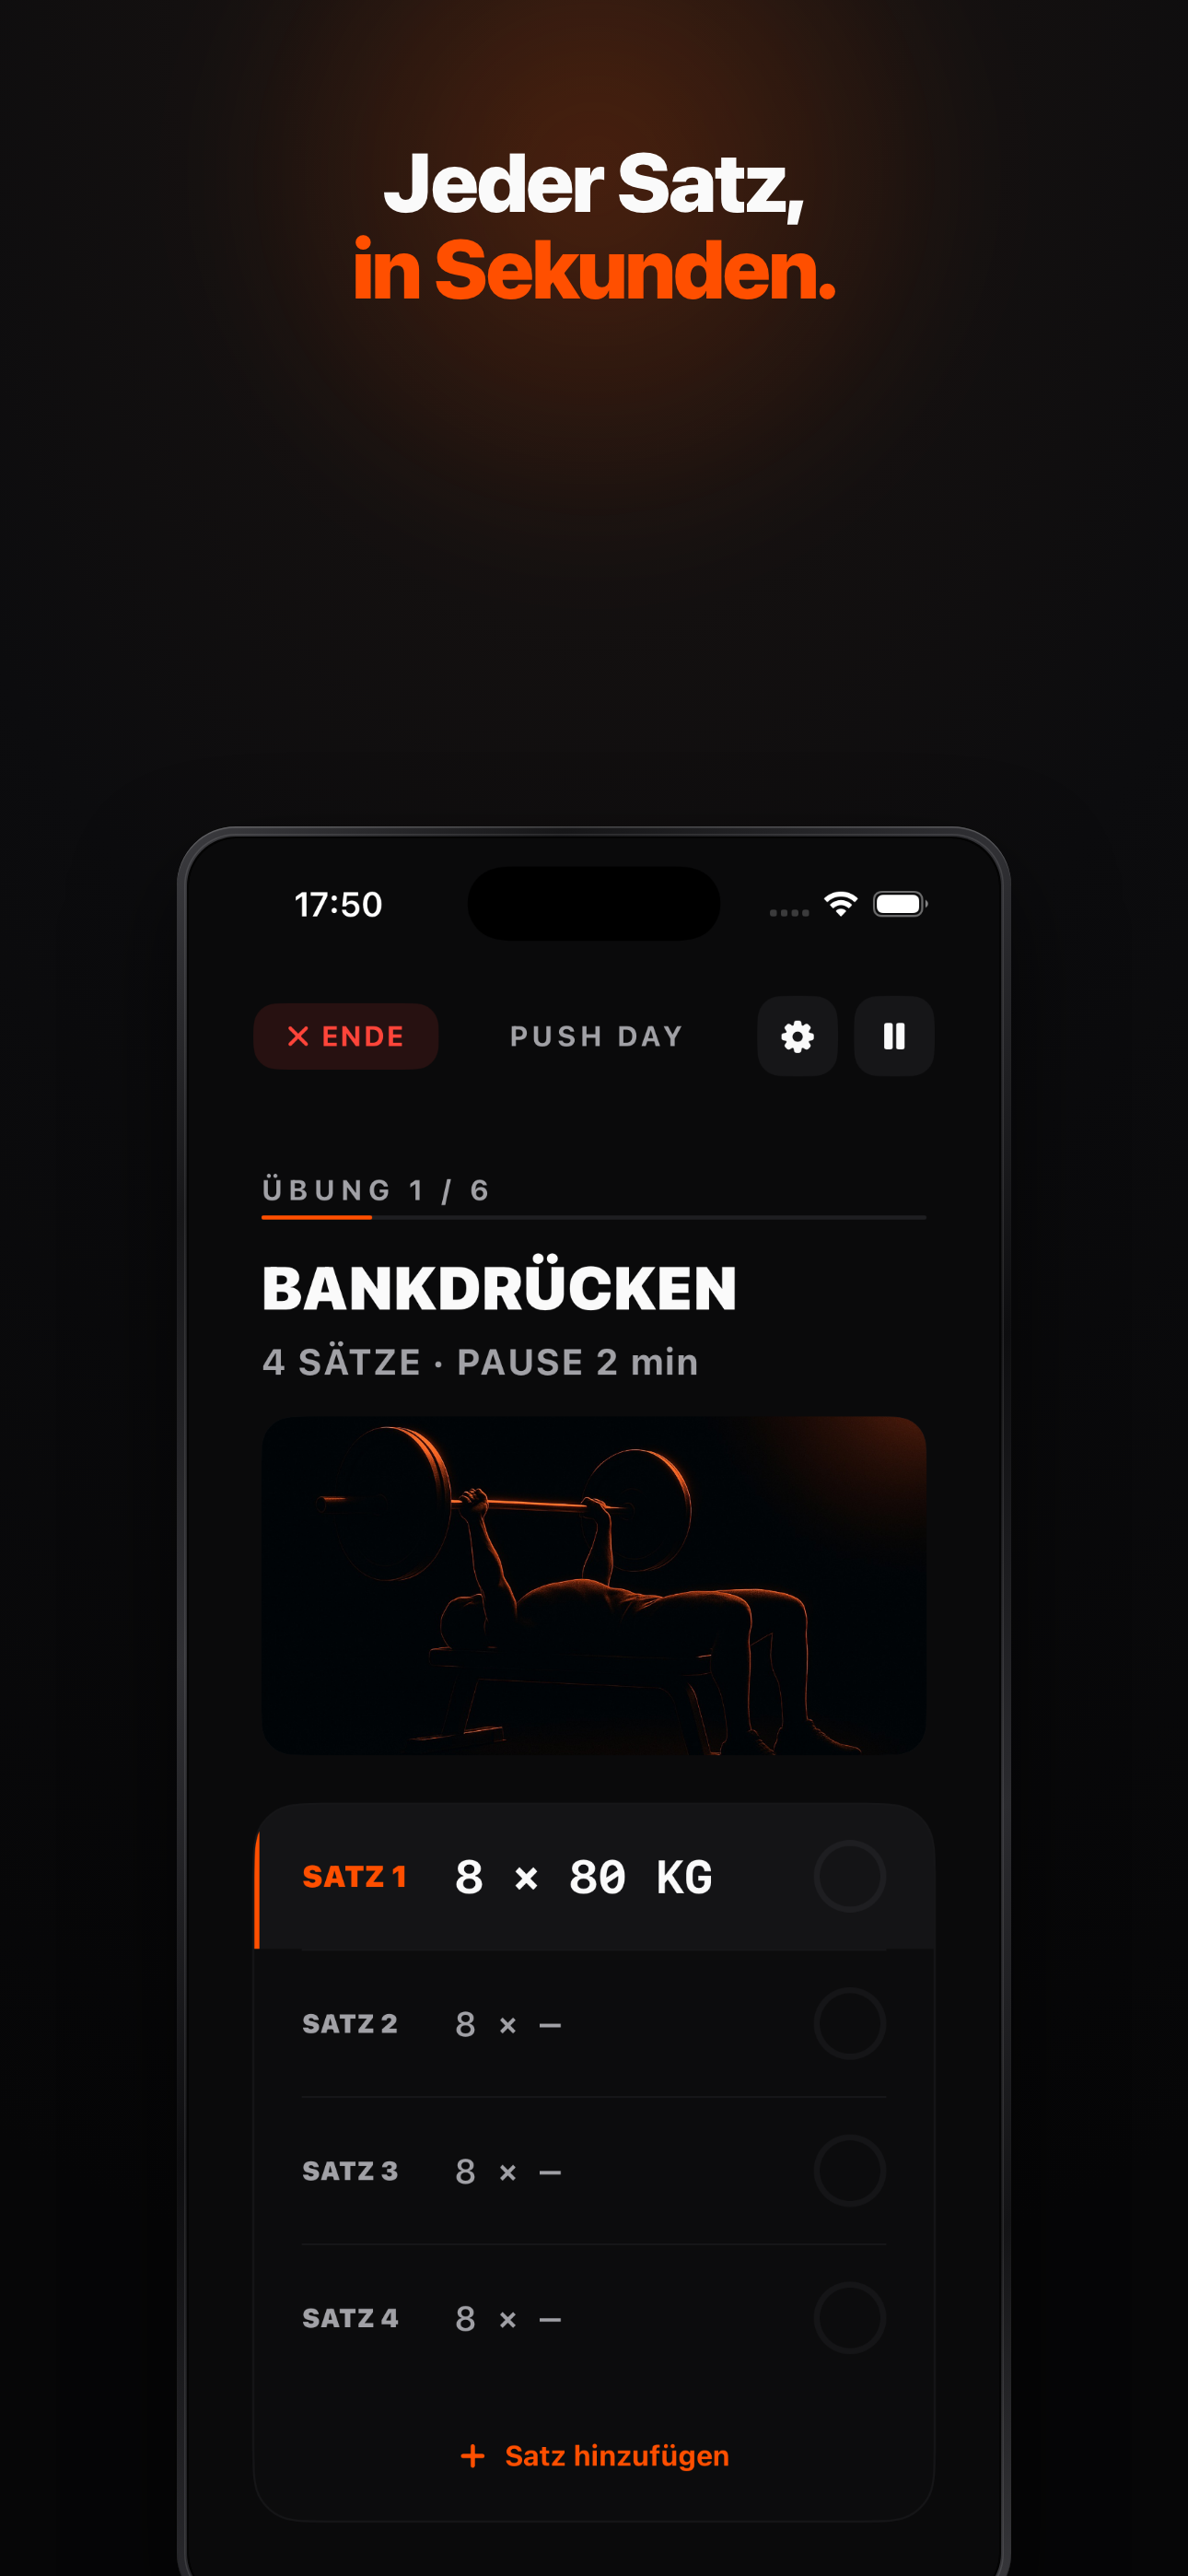
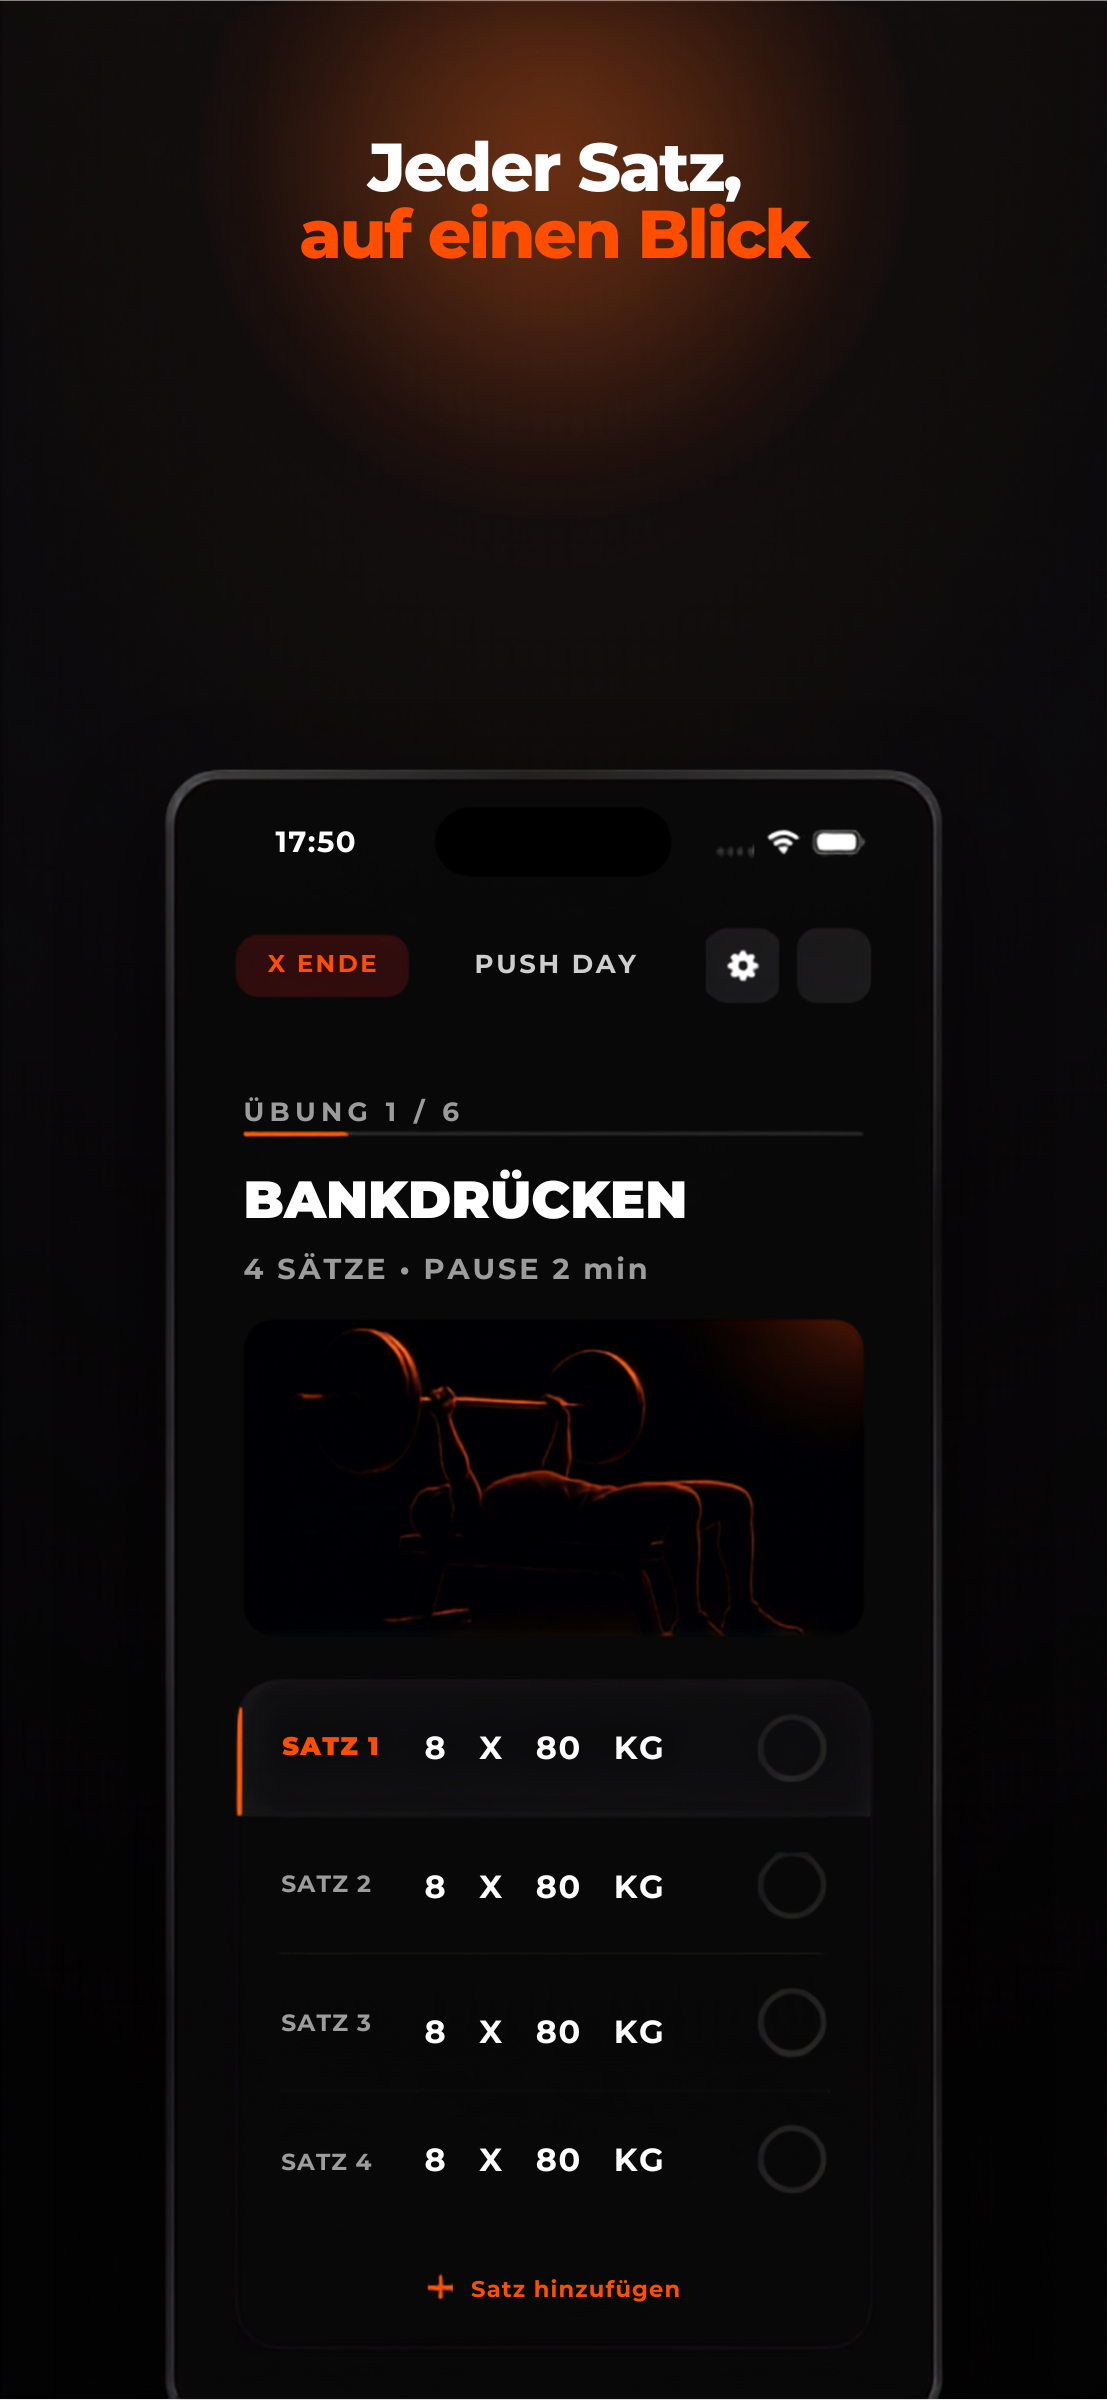
chore: App Store launch finalization (iPhone-only build 2 + IAP assets)
- iOS target now iPhone-only (TARGETED_DEVICE_FAMILY=1), build bumped to 2
- Declare no non-exempt encryption in Info.plist (skips export-compliance prompt)
- ASO: app name "GymBuddy: Workout Log" + reworked subtitle (listing + checklist)
- Add Tip Jar IAP review screenshot (docs/app-store/iap/tipjar-review.png)
- Repo cleanup: fix broken German screenshot filename, drop stale portfolio 2x mockup

App + 3 Tip Jar IAPs submitted to App Store review (v1.0 build 2).

diff --git a/docs/app-store-listing.md b/docs/app-store-listing.md
@@ -9,16 +9,16 @@ the description is **not** indexed (pure conversion). Screenshot captions ARE in
 ## 🇬🇧 English (primary)
 
 ### App Name — 30 char limit
-> **GymBuddy: Workout Tracker** — `25 chars`
+> **GymBuddy: Workout Log** — `21 chars`
 
-Brand + the highest-volume generic keyword ("workout tracker").
-⚠️ **Check name availability** in App Store Connect first — if "GymBuddy" is taken, fallbacks:
-`GymBuddy: Lifting Tracker` (25) · `GymBuddy — Gym Workout Log` (26).
+Brand + high-volume keywords ("workout", "log"). Chosen because "GymBuddy: Workout Tracker"
+was already taken in App Store Connect (also-free alternative: `GymBuddy: Lifting Tracker`).
 
 ### Subtitle — 30 char limit
-> **Lifting log, sets & rest timer** — `30 chars`
+> **Lifting tracker, sets & timer** — `29 chars`
 
-Adds new keywords (lifting, log, sets, rest, timer) — none repeated from the title.
+Adds new keywords (lifting, tracker, sets, timer) — none repeated from the title.
+("Tracker" recovered here since the title dropped it; "log" not repeated since the title now owns it.)
 
 ### Keyword field — 100 byte limit (commas, no spaces)
 > `strength,training,gym,weight,exercise,planner,routine,reps,bodybuilding,powerlifting,push,pull,legs` — `99 bytes`

diff --git a/docs/app-store-submission-checklist.md b/docs/app-store-submission-checklist.md
@@ -52,7 +52,7 @@ with these exact product IDs (must match the code), set prices, and submit them 
 - Sandbox: also testable via a Sandbox Apple ID once the IAPs exist in ASC.
 
 ## 5. App Store listing — ⬜ (paste from `docs/app-store-listing.md`)
-- **Name:** GymBuddy: Workout Tracker · **Subtitle:** Lifting log, sets & rest timer
+- **Name:** GymBuddy: Workout Log · **Subtitle:** Lifting tracker, sets & timer
 - **Keywords:** the 99-byte string (EN), plus the German set under the German localization
 - **Description** + **Promotional text** (EN and DE)
 - **Screenshots:** upload `docs/app-store/en/01…06` to the 6.9" slot (EN), `docs/app-store/de/01…06` under German